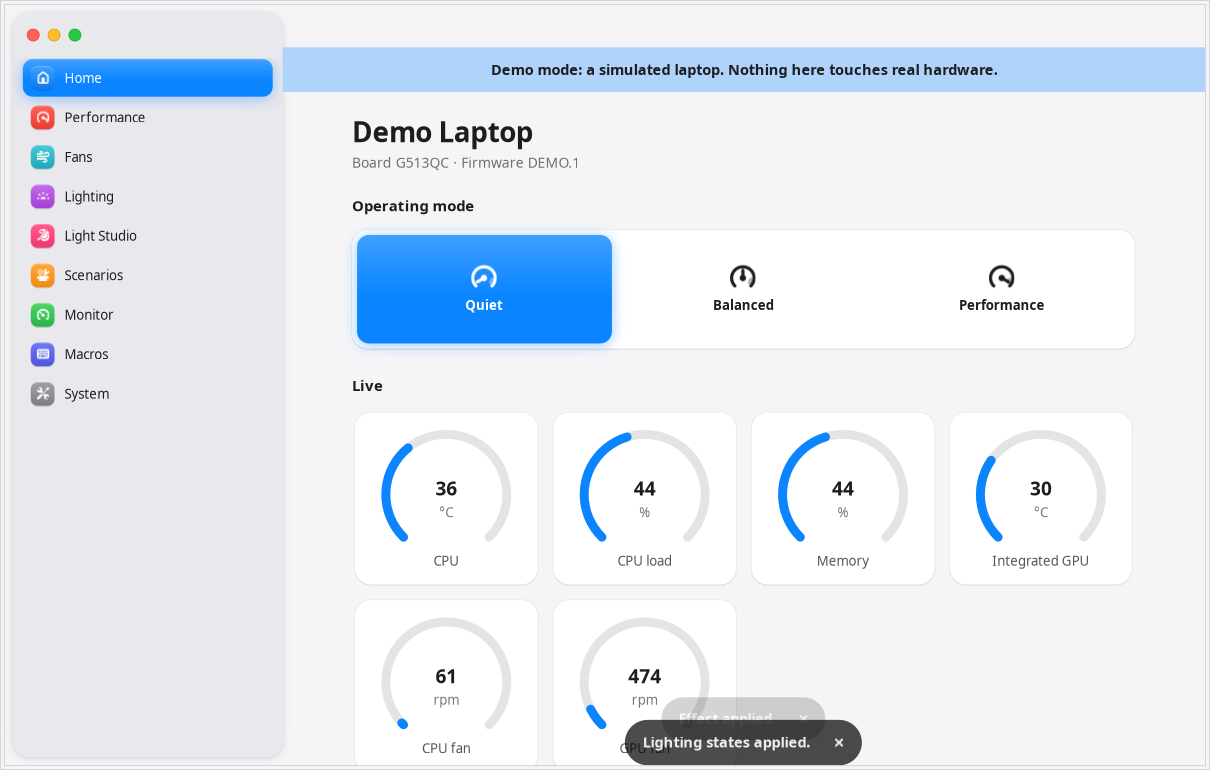
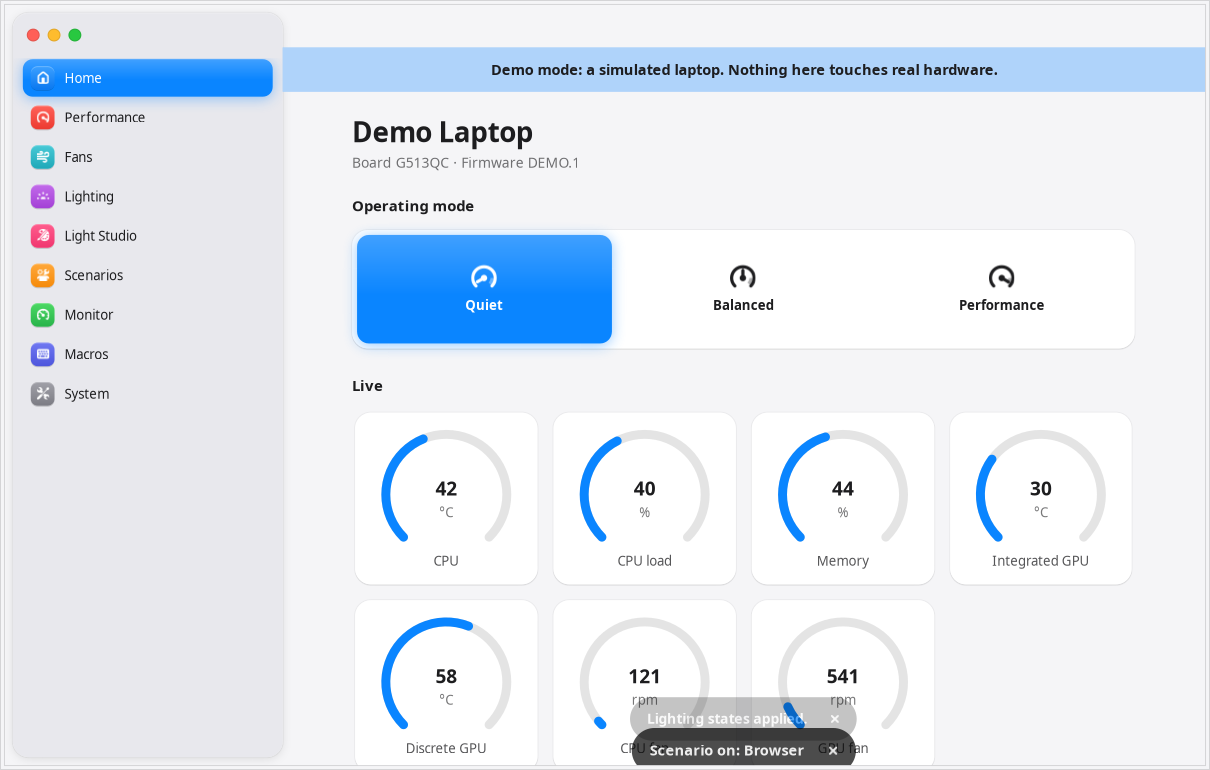
Add a .deb package and rewrite the README
scripts/build_deb.sh builds an installable package from the same layout
as install.sh, leaving out the udev rule that exposes key presses. The
README now explains the project, its features, install and test status.

diff --git a/tests/test_system.py b/tests/test_system.py
@@ -2,6 +2,7 @@
 import os
 import pathlib
 import shutil
+import subprocess
 
 import pytest
 
@@ -155,3 +156,16 @@ def test_gpu_switch_without_prime_select_stays_blocked_while_loaded(hw):
     assert hw.gpu_switch_state() == "blocked"
     shutil.rmtree(hw.root + "/sys/module/nvidia")
     assert hw.gpu_switch_state() == "ready"
+
+
+@pytest.mark.skipif(not shutil.which("dpkg-deb"), reason="needs dpkg-deb")
+def test_package_contents():
+    root = SOURCE.parent
+    built = subprocess.run([str(root / "scripts" / "build_deb.sh")], capture_output=True, text=True, check=True).stdout.strip()
+    listing = subprocess.run(["dpkg-deb", "--contents", built], capture_output=True, text=True, check=True).stdout
+    for needed in ("./usr/bin/openarmoury", "./usr/libexec/openarmoury/openarmoury-helper", "org.openarmoury.helper.policy", "ui/theme.css", "asusctl/LICENSE", "512x512/apps/org.openarmoury.App.png"):
+        assert needed in listing, needed
+    assert "udev" not in listing and "__pycache__" not in listing
+    assert not [line for line in listing.splitlines() if line[5] == "w" or line[8] == "w"], "group or world writable"
+    helper_line = next(line for line in listing.splitlines() if line.endswith("openarmoury-helper") and line.startswith("-"))
+    assert helper_line.startswith("-rwxr-xr-x root/root")

diff --git a/README.md b/README.md
@@ -1,96 +1,123 @@
-# OpenArmoury
+<p align="center"><img src="data/icons/128.png" alt="OpenArmoury logo" width="128"></p>
 
-A native Ubuntu app for ASUS gaming laptops: performance profiles, fan curves, battery charge limit and keyboard
-lighting. It's an independent project, not made by or affiliated with ASUS.
+<h1 align="center">OpenArmoury</h1>
+
+<p align="center">A native Ubuntu control centre for ASUS gaming laptops.</p>
+
+ASUS's Armoury Crate and Aura Creator only run on Windows. OpenArmoury brings their useful laptop controls to Linux:
+performance modes, fan curves, battery limits and keyboard lighting, in one app.
 
 It works out what your laptop can do when it starts, from what the kernel and keyboard report, rather than from a
-list of supported models.
+fixed list of supported models.
 
-![Home page](docs/home.png)
+> OpenArmoury is an independent project. It isn't made by, or affiliated with, ASUS. Armoury Crate and Aura are ASUS
+> names, used here only to describe what this project is an alternative to.
 
-## Try it safely
-
-Demo mode runs against a simulated laptop and can't touch your hardware or saved settings:
-
-```sh
-python3 -m openarmoury --demo
-```
+![OpenArmoury's Home page, with mode tiles and live gauges](docs/home.png)
 
 ## Install
 
-Needs Ubuntu 24.04 or newer with `python3-gi`, `gir1.2-gtk-4.0` and `gir1.2-adw-1`. Nothing is downloaded.
+You need Ubuntu 24.04 or newer, with GNOME for the full feature set.
+
+1. Download `openarmoury_0.1.0_all.deb` from this repo's Releases page.
+2. In the folder where you saved it, run:
+
+   ```sh
+   sudo apt install ./openarmoury_0.1.0_all.deb
+   ```
+
+3. Open **OpenArmoury** from your apps.
+
+To remove it, run `sudo apt remove openarmoury`. Your settings stay in `~/.config/openarmoury` until you delete them.
+
+### Try it without changing anything
+
+Demo mode runs on a simulated laptop, and can't touch your hardware or settings:
 
 ```sh
-sudo ./install.sh                # or: sudo ./install.sh --no-uaccess
-sudo ./uninstall.sh              # removes everything except your settings
+openarmoury --demo
 ```
 
-### The `--no-uaccess` choice
+### Other ways to install
 
-The default install adds a udev rule so that lighting works without a password. That rule also lets programs
-running as you read raw key reports from the keyboard. With `--no-uaccess` lighting goes through the root helper
-instead, and asks for your password once a session.
+To build the package yourself, run `scripts/build_deb.sh`, and the file appears in `dist/`.
 
-## Pages
+To install directly from a copy of this repo, run `sudo ./install.sh --no-uaccess`. Without `--no-uaccess`, it also
+adds a rule that lets lighting work without a password, but that rule lets programs running as you read raw key
+presses from the keyboard. The package leaves this rule out. Use `sudo ./uninstall.sh` to remove this kind of install.
 
-| Page | What it does |
+## Features
+
+| Page | What you can do |
 |---|---|
-| Home | Operating mode tiles, live gauges for temperature, load, memory and fans, and status |
-| Performance | Profile, GPU settings with warnings, and power limits with the kernel's own min and max |
-| Fans | Drag-to-edit curves with 8 points per fan, re-applied when you return to a profile |
-| Lighting | Built-in effects, colour, speed, direction, zones, brightness, and boot/sleep lighting, with an animated preview |
-| Light Studio | Painting, a keyframe editor, sensor-driven and music-reactive lighting, and presets |
-| Scenarios | Settings per game or program, plugged-in and battery rules, and a game library |
-| Monitor | Live CPU, memory, disk, network and power, GPU state without waking it, and closing large programs |
-| Macros | Record keys, then play them back from a button or a keyboard shortcut |
-| System | Battery care, touchpad, Win key, microphone, refresh rate, night light, ROG key, background running, and backups |
+| **Home** | Switch operating mode, and see live temperature, load, memory and fan dials |
+| **Performance** | Choose a profile, turn off the discrete GPU in safe steps, and set power limits where the kernel offers them |
+| **Fans** | Drag 8 points per fan to shape a curve, or start from Quiet, Balanced, Cool or Full speed |
+| **Lighting** | Set effects, colour, speed, direction, zones and brightness, and choose when the lights stay on |
+| **Light Studio** | Paint keys or zones, build keyframe animations, and link colour to temperature, load, battery or music |
+| **Scenarios** | Change settings per game or program, set plugged-in and battery rules, and launch games |
+| **Monitor** | Watch CPU, memory, disk, network and power, plus NVIDIA readings, and close large programs |
+| **Macros** | Record keys, then replay them from a button or keyboard shortcut |
+| **System** | Set battery care limits, touchpad, Win key, microphone, refresh rate and night light, and back up your settings |
 
-[docs/features.md](docs/features.md) compares every Armoury Crate feature, including what isn't built and why.
+Light and dark themes follow your system. [docs/features.md](docs/features.md) compares every Armoury Crate feature,
+including what isn't built and why.
+
+![Light Studio, with a lit keyboard preview](docs/studio.png)
 
 ## How it stays safe
 
-- **You see every first write.** The first time the app makes a kind of change, it shows the exact file or packet
-  and waits for you. Anything unproven says why.
-- **One small root helper.** It starts through `pkexec`, allows only exact paths and value patterns, and only talks
-  to hidraw devices with the ASUS vendor ID. Firmware-style commands are refused.
-- **Nothing is saved to the keyboard unless you ask.** Animations send only non-persistent colour packets, at no
-  more than 15 frames a second.
-- **A sleeping GPU stays asleep.** `nvidia-smi` is only asked when the GPU is already awake, and rarely enough when idle that it can go back to sleep.
+- **You see every first change.** The first time the app makes a kind of change, it shows the exact file or packet and
+  waits for your OK. Anything unproven says why.
+- **One small root helper.** It starts through `pkexec` and allows only exact paths and values. It talks only to
+  hidraw devices with the ASUS vendor ID, and refuses firmware-style commands.
+- **Nothing is saved to the keyboard unless you ask.** Animations send only temporary colour packets, at up to 15
+  frames a second.
+- **A sleeping GPU stays asleep.** `nvidia-smi` runs only when the GPU is already awake, and rarely enough when idle
+  that it can go back to sleep.
+- **The GPU can't be switched off with its driver loaded.** That crashed the kernel when tested, so both the app and
+  the helper refuse it.
 
-## Verified vs untested
+## What's been tested
 
-Tested on one machine: ROG Strix G513QC, BIOS 331, kernel 7.0, Ubuntu 24.04.5.
+Everything was tested on one laptop: a ROG Strix G513QC with BIOS 331, kernel 7.0 and Ubuntu 24.04.5.
 
 | Status | What |
 |---|---|
-| **Tested automatically** | HID descriptor parser using this laptop's real descriptor; helper whitelist; packet layouts; restore rules (`pytest`) |
-| **Tested on the mock laptop** | Every page, helper writes, the approval dialog, the live-lighting rate limit, scenarios, macros and power states (`tests/shots.py`, under Xvfb) |
-| **Checked on the real laptop, read-only** | Model, sensors, fans, curves, profiles, attributes, keyboard interface, GPU state, refresh rates and battery health read correctly (`tests/real_readonly.py`) |
-| **Tested on the real laptop, with settings restored** | Profiles, charge limit, brightness, boot sound, panel overdrive, fan curves, the keyboard query, effects, zone and live colour commands, macro playback, NVIDIA readings, touchpad, Win key, microphone, night light, ROG shortcut, refresh rate and the audio reader (`tests/real_write_check.py`) |
-| **Sent, but only your eyes can confirm** | Whether each lighting effect and zone looks right on the keyboard |
-| **Tested and found unsafe** | Turning off the GPU with its driver loaded crashed the kernel and the display server. The app and helper refuse it |
-| **Not yet tested on real hardware** | The two-step way to turn off the GPU: stopping the driver through `prime-select`, restarting, then the switch |
-| **Accepted, but the effect isn't confirmed** | Saving to keyboard flash, which needs a restart to confirm, and boot and sleep lighting, which needs a restart and a sleep to confirm |
-| **Unproven protocol details** | Which packet saves to flash; direct colour on this model; zone numbers; see [docs/protocol.md](docs/protocol.md) |
-| **Other ASUS laptops** | Untested. Model data comes from asusctl, and detection is designed to fall back to fewer features |
+| ✅ **Works on the real laptop** | Profiles, charge limit, brightness, boot sound, panel overdrive, fan curves, keyboard effects, zone and live colour, macros, NVIDIA readings, touchpad, Win key, microphone, night light, refresh rate, scenarios, plugged-in rules, running in the background, and music lighting |
+| ⚠ **Sent, but the result isn't confirmed** | Saving an effect to keyboard memory, and boot and sleep lighting |
+| ⚠ **Not tested on a real laptop** | The two-step way to turn off the GPU, battery rules, and the game library, which has only seen a demo entry and a sample Steam game |
+| ❌ **Found unsafe, so blocked** | Turning off the GPU while its driver is loaded |
+| ❓ **Other ASUS laptops** | Untested. The app is designed to fall back to fewer features, but expect rough edges |
+
+Reports from other models are very welcome.
 
 ### Known limits
 
-- Per-key painting needs a key layout. asusctl provides 18. A per-key model without one gets everything else, but
-  no key painting.
-- Lighting power states (boot and sleep) on older keyboards come from asusctl only, so they show a warning first.
-- The Win key setting only stops Activities opening. Win+ shortcuts still work.
-- Refresh rate control needs GNOME. Scenarios and battery rules need the app running, or "Keep running" on.
-- Macros play through the root helper, so they may ask for your password. They're stored as plain text.
-- Restoring at login asks for your password if it has to change anything besides lighting. Software effects
-  from Light Studio need the app running.
-- CPU power limits show as unavailable where the kernel has no limits for your model, which includes the G513QC.
+- Per-key painting needs a key layout, and 18 are included. A per-key laptop without one gets everything else.
+- The Win key setting stops Activities opening, but Win+ shortcuts still work.
+- Refresh rate, touchpad, Win key, night light and shortcuts need GNOME.
+- Scenarios and rules need the app running, or **Keep running** turned on in System.
+- Restoring settings at login asks for your password unless lighting is all that's saved.
+- If you turn off the GPU, it also stays off in Windows until you turn it back on from the app.
+
+## How this was built
+
+1. **Surveyed the hardware** using read-only commands: [docs/hardware.md](docs/hardware.md).
+2. **Studied the protocol** through static analysis of Armoury Crate's installed files, for interoperability, and
+   cross-checked each fact against [asusctl](https://github.com/opengamingcollective/asusctl) and the Linux kernel
+   drivers: [docs/protocol.md](docs/protocol.md). No ASUS code or assets are in this project.
+3. **Built the app** in Python with GTK4 and libadwaita. It uses kernel interfaces wherever they exist, and hidraw
+   only for keyboard lighting.
+4. **Tested it** on a simulated laptop first, then on real hardware, restoring settings afterwards.
 
 ## Development
 
 ```sh
-python3 -m pytest tests
-xvfb-run -a -s "-screen 0 1280x900x24" env GSK_RENDERER=cairo python3 tests/shots.py /tmp/openarmoury-shots
+python3 -m pytest tests                        # logic and the helper's safety rules
+xvfb-run -a -s "-screen 0 1280x900x24" env GSK_RENDERER=cairo python3 tests/shots.py /tmp/openarmoury-shots   # every page, on the simulated laptop
+python3 tests/real_write_check.py              # real writes on your laptop, then restores them
+scripts/build_deb.sh                           # builds the package
 ```
 
 ## Licence and credits
@@ -99,7 +126,6 @@ Keyboard layouts and the model table in `openarmoury/data/asusctl/` are converte
 [asusctl](https://github.com/opengamingcollective/asusctl) and stay under the Mozilla Public License 2.0, with the
 licence alongside them. `scripts/import_asusctl.py` regenerates them.
 
-The app icon was generated with Gemini. Check Google's terms for AI-generated images before publishing it.
-`scripts/make_icons.py` rebuilds the sizes from `data/icons/source.jpeg`.
+The app icon was generated with Gemini. `scripts/make_icons.py` rebuilds its sizes from `data/icons/source.jpeg`.
 
 The rest of the project has no licence chosen yet.
